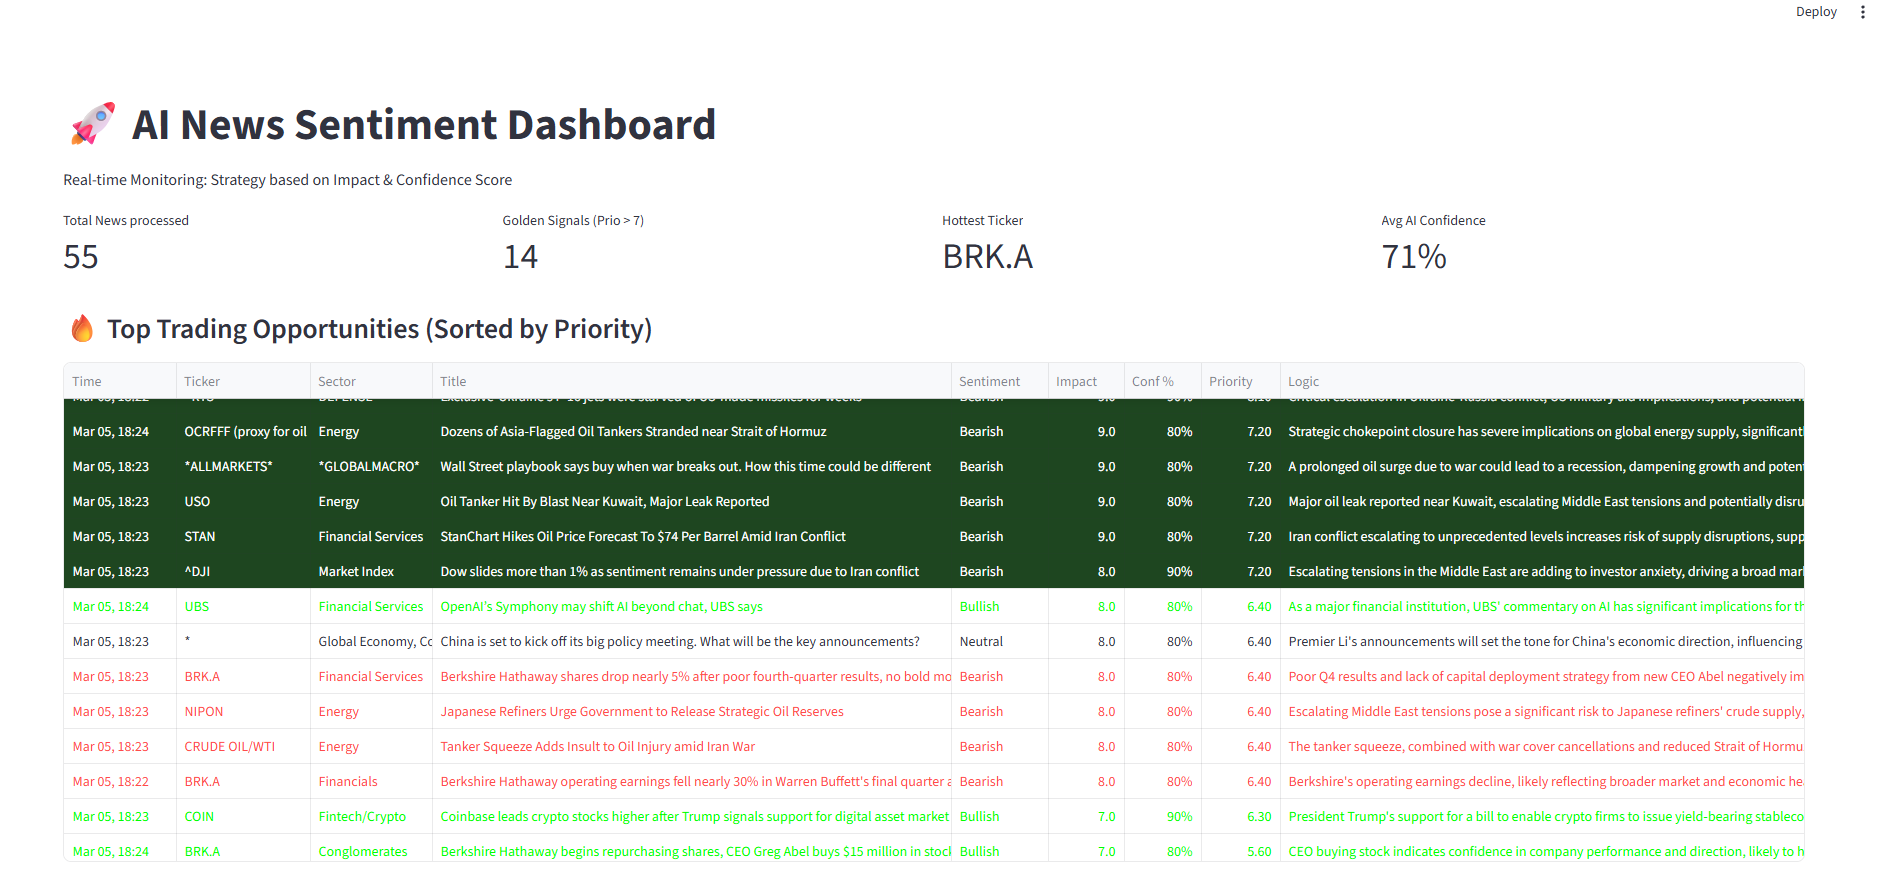
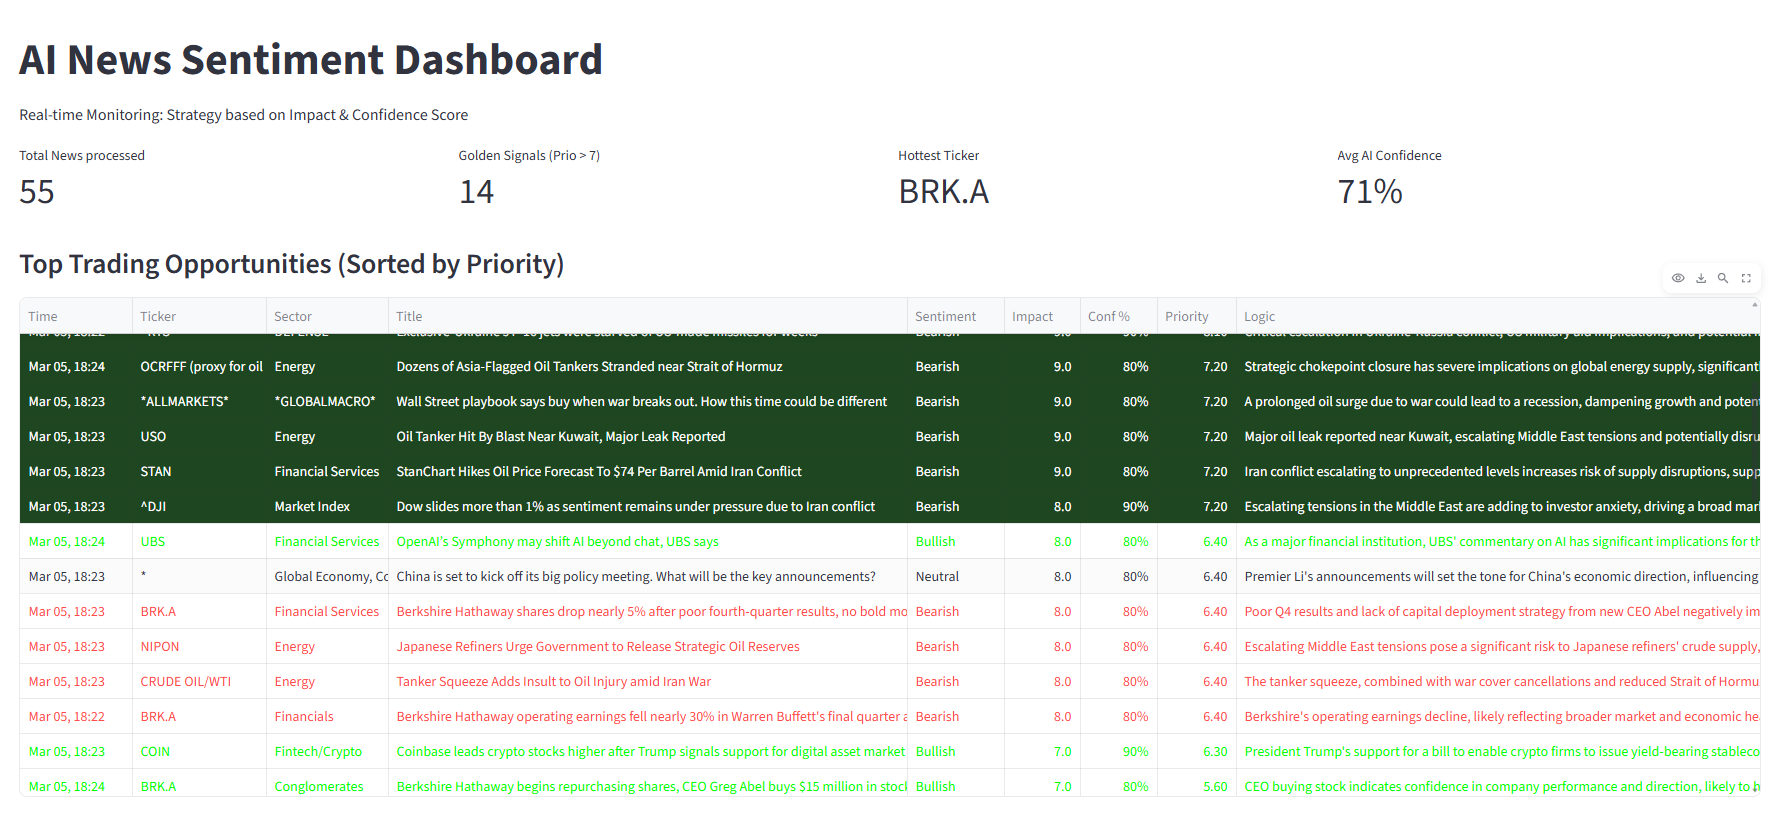
chore: update dashboard

diff --git a/scripts/app.py b/scripts/app.py
@@ -6,9 +6,9 @@ import os
 from datetime import datetime
 
 # --- PAGE CONFIGURATION ---
-st.set_page_config(page_title="AI Trading Monitor", layout="wide", page_icon="🚀")
+st.set_page_config(page_title="AI Trading Monitor", layout="wide", page_icon="🛠")
 
-st.title("🚀 AI News Sentiment Dashboard")
+st.title("AI News Sentiment Dashboard")
 st.write("Real-time Monitoring: Strategy based on Impact & Confidence Score")
 
 def load_data():
@@ -87,7 +87,7 @@ try:
             st.metric("Avg AI Confidence", avg_conf)
 
         # --- OPPORTUNITIES TABLE ---
-        st.subheader("🔥 Top Trading Opportunities (Sorted by Priority)")
+        st.subheader("Top Trading Opportunities (Sorted by Priority)")
         
         # UI Styling: Highlights high-priority signals and color-codes sentiment
         def style_rows(row):
